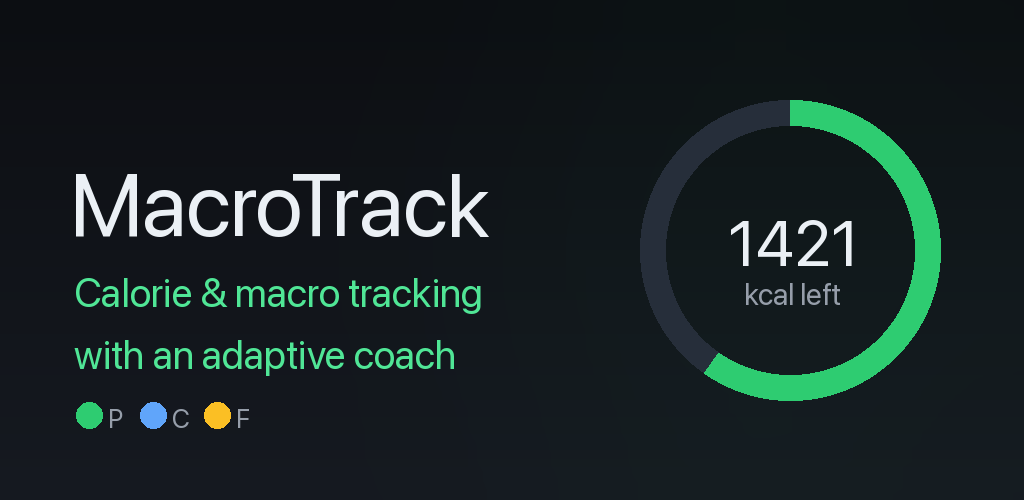
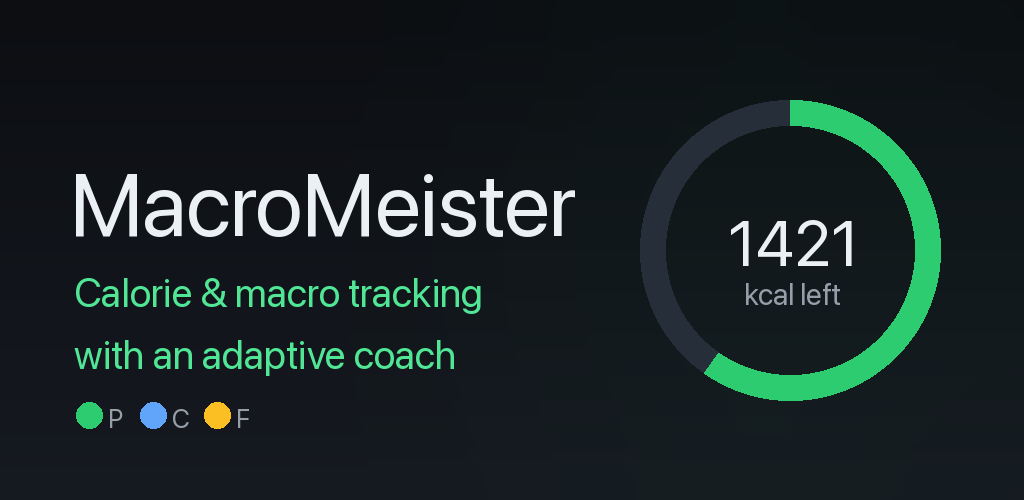
Rename app to MacroMeister (package/repo unchanged)
User-facing rename only: MaterialApp title, Android launcher label,
iOS CFBundleDisplayName, export/share text, notification copy,
OpenFoodFacts User-Agent, OpenAI X-Title headers, Play listing
(EN/DE/FR), feature graphic + icon text (compose.py), README.
Internal identifiers (MacroTrackApp class, package name
com.trsonn.macrotrack, backup format marker, code comments) unchanged.
Analyze zero issues, 60/60 tests green.

Changed region(s): [[0.2812, 0.33, 0.5625, 0.48]]

diff --git a/lib/services/food_search.dart b/lib/services/food_search.dart
@@ -18,7 +18,7 @@ Future<OffSearchResult> searchOff(String query, {int limit = 25}) async {
       '&search_simple=1&action=process&json=1&page_size=$limit');
   try {
     final res = await http
-        .get(uri, headers: {'User-Agent': 'MacroTrack - Android - Version 1.0'})
+        .get(uri, headers: {'User-Agent': 'MacroMeister - Android - Version 1.0'})
         .timeout(const Duration(seconds: 12));
     if (res.statusCode != 200) return OffSearchResult(const [], 0);
     final data = jsonDecode(utf8.decode(res.bodyBytes)) as Map<String, dynamic>;
@@ -41,7 +41,7 @@ Future<Food?> lookupOffBarcode(String barcode) async {
         .get(
             Uri.parse(
                 'https://world.openfoodfacts.org/api/v2/product/$barcode.json'),
-            headers: {'User-Agent': 'MacroTrack - Android - Version 1.0'})
+            headers: {'User-Agent': 'MacroMeister - Android - Version 1.0'})
         .timeout(const Duration(seconds: 12));
     if (res.statusCode != 200) return null;
     final data = jsonDecode(utf8.decode(res.bodyBytes)) as Map<String, dynamic>;

diff --git a/lib/services/openai.dart b/lib/services/openai.dart
@@ -52,7 +52,7 @@ class Ai {
                 'Content-Type': 'application/json',
                 if (cfg.provider == 'openrouter') ...{
                   'HTTP-Referer': 'https://macrotrack.local',
-                  'X-Title': 'MacroTrack',
+                  'X-Title': 'MacroMeister',
                 },
               },
               body: jsonEncode({
@@ -290,7 +290,7 @@ class Ai {
                   'Content-Type': 'application/json',
                   if (cfg.provider == 'openrouter') ...{
                     'HTTP-Referer': 'https://macrotrack.local',
-                    'X-Title': 'MacroTrack',
+                    'X-Title': 'MacroMeister',
                   },
                 },
                 body: jsonEncode({

diff --git a/lib/ui/more/data_export.dart b/lib/ui/more/data_export.dart
@@ -149,7 +149,7 @@ class DataExportScreen extends StatelessWidget {
       await file.writeAsString('\uFEFF$csv', encoding: utf8);
       await SharePlus.instance.share(ShareParams(
           files: [XFile(file.path, mimeType: 'text/csv')],
-          text: 'MacroTrack export: $name'));
+          text: 'MacroMeister export: $name'));
     } catch (e) {
       if (context.mounted) {
         ScaffoldMessenger.of(context).showSnackBar(SnackBar(

diff --git a/lib/services/notifications.dart b/lib/services/notifications.dart
@@ -122,7 +122,7 @@ class Notifications {
       await _plugin.zonedSchedule(
         _dailyId,
         'Time to log your meals',
-        'Keep your MacroTrack streak going — log today\'s food.',
+        'Keep your MacroMeister streak going — log today\'s food.',
         _tz(at),
         const NotificationDetails(
           android: AndroidNotificationDetails(

diff --git a/lib/main.dart b/lib/main.dart
@@ -27,7 +27,7 @@ class MacroTrackApp extends StatelessWidget {
     return AnimatedBuilder(
       animation: AppState.instance,
       builder: (context, _) => MaterialApp(
-        title: 'MacroTrack',
+        title: 'MacroMeister',
         debugShowCheckedModeBanner: false,
         theme: MtTheme.theme(),
         home: const _AppRoot(),

diff --git a/play_store/compose.py b/play_store/compose.py
@@ -127,7 +127,7 @@ d.text((cx - 46, cy + 26), "kcal left", font=font(30), fill=DIM)
 bg = Image.alpha_composite(bg.convert("RGBA"), ring_bg)
 d = ImageDraw.Draw(bg)
 # title + tagline
-d.text((70, 150), "MacroTrack", font=font(88), fill=TEXT)
+d.text((70, 150), "MacroMeister", font=font(88), fill=TEXT)
 d.text((74, 268), "Calorie & macro tracking", font=font(40), fill=GREEN_HI)
 d.text((74, 330), "with an adaptive coach", font=font(40), fill=GREEN_HI)
 # macro dots

diff --git a/play_store/listing_fr.md b/play_store/listing_fr.md
@@ -1,14 +1,14 @@
-# Fiche Google Play — MacroTrack (français)
+# Fiche Google Play — MacroMeister (français)
 
 ## Titre de l'app (30 caractères max)
-MacroTrack : Calories & macros
+MacroMeister : Calories & macros
 
 ## Description courte (80 caractères max)
 Suivi des calories et macros avec coach adaptif, base hors ligne et progrès.
 
 ## Description complète (4000 caractères max)
 
-MacroTrack est un compteur de calories et de macros concentré sur l'essentiel,
+MacroMeister est un compteur de calories et de macros concentré sur l'essentiel,
 avec un programme de coaching adaptatif — les chiffres qui comptent, sans le
 superflu.
 
@@ -52,7 +52,7 @@ HORS LIGNE D'ABORD, PRIVÉ PAR CONCEPTION
   avec Google Health Connect / Apple Health
 • Vos données restent sur votre appareil. Aucun compte requis.
 
-MacroTrack est un tracker indépendant et hors ligne : pas de compte, pas de
+MacroMeister est un tracker indépendant et hors ligne : pas de compte, pas de
 pub, pas d'abonnement — toutes les fonctionnalités sont incluses.
 
-Téléchargez MacroTrack et laissez les chiffres vous coacher.
+Téléchargez MacroMeister et laissez les chiffres vous coacher.

diff --git a/play_store/listing_de.md b/play_store/listing_de.md
@@ -1,14 +1,14 @@
-# Google Play Eintrag — MacroTrack (Deutsch)
+# Google Play Eintrag — MacroMeister (Deutsch)
 
 ## App-Titel (max. 30 Zeichen)
-MacroTrack: Kalorienzähler
+MacroMeister: Kalorienzähler
 
 ## Kurze Beschreibung (max. 80 Zeichen)
 Kalorien & Makros tracken mit adaptivem Coach, Offline-Datenbank, Fortschritt.
 
 ## Vollständige Beschreibung (max. 4000 Zeichen)
 
-MacroTrack ist ein fokussierter Kalorien- und Makro-Tracker mit adaptivem
+MacroMeister ist ein fokussierter Kalorien- und Makro-Tracker mit adaptivem
 Coaching-Programm — die Zahlen, die zählen, ohne Ballast.
 
 TRACKEN OHNE MEHRARBEIT
@@ -49,7 +49,7 @@ OFFLINE FIRST, PRIVAT BY DESIGN
   mit Google Health Connect / Apple Health
 • Deine Daten bleiben auf deinem Gerät. Kein Konto nötig.
 
-MacroTrack ist ein unabhängiger, Offline-first-Tracker: kein Konto, keine
+MacroMeister ist ein unabhängiger, Offline-first-Tracker: kein Konto, keine
 Werbung, kein Abo — alle Funktionen sind enthalten.
 
-Lade MacroTrack herunter und lass die Zahlen für dich coachen.
+Lade MacroMeister herunter und lass die Zahlen für dich coachen.

diff --git a/play_store/listing.md b/play_store/listing.md
@@ -1,14 +1,14 @@
-# Google Play listing — MacroTrack
+# Google Play listing — MacroMeister
 
 ## App title (30 chars max)
-MacroTrack: Calorie Counter
+MacroMeister: Calorie Counter
 
 ## Short description (80 chars max)
 Calorie & macro tracking with an adaptive coach, offline food DB and progress.
 
 ## Full description (4000 chars max)
 
-MacroTrack is a focused calorie and macro tracker with an adaptive coaching
+MacroMeister is a focused calorie and macro tracker with an adaptive coaching
 program — the numbers that matter, without the clutter.
 
 TRACK WITHOUT THE BUSYWORK
@@ -49,10 +49,10 @@ OFFLINE-FIRST, PRIVATE BY DESIGN
   Connect / Apple Health
 • Your data stays on your device. No account required.
 
-MacroTrack is an independent, offline-first tracker: no account, no ads, no
+MacroMeister is an independent, offline-first tracker: no account, no ads, no
 subscription — every feature is included.
 
-Download MacroTrack and let the numbers do the coaching.
+Download MacroMeister and let the numbers do the coaching.
 
 ## Graphics
 - feature_graphic.png — 1024x500 feature graphic

diff --git a/README.md b/README.md
@@ -1,4 +1,4 @@
-# MacroTrack
+# MacroMeister
 
 A local-first nutrition and macro tracker for Android (Flutter). All data
 stays on your device — no account, no cloud, no tracking.
